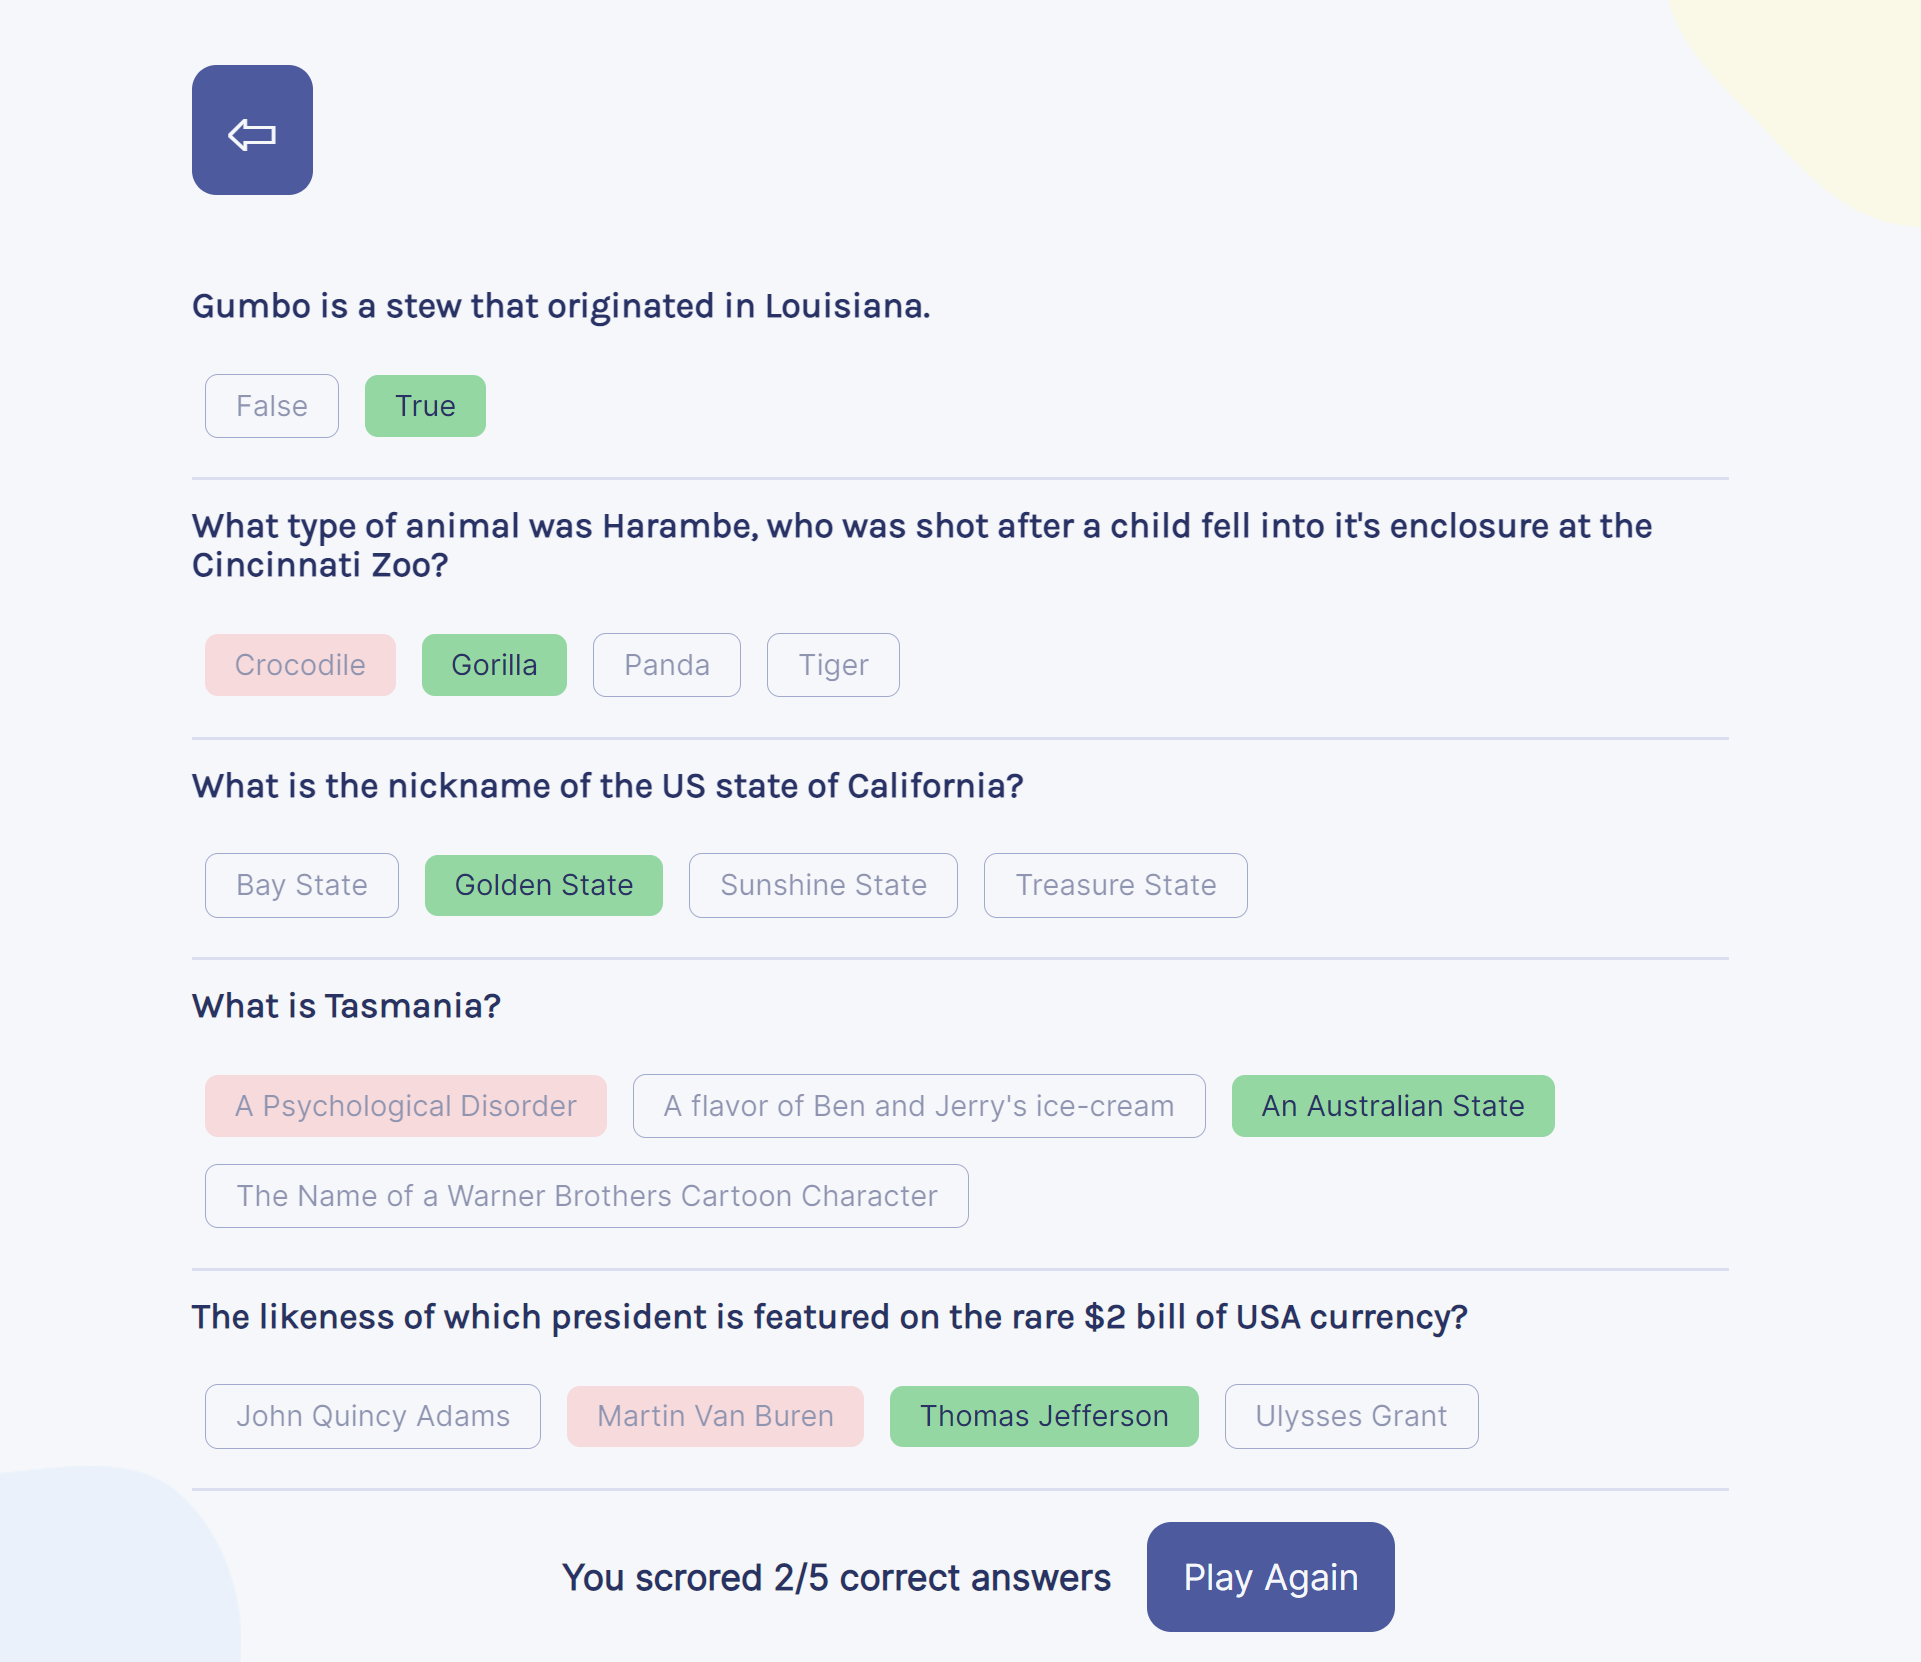
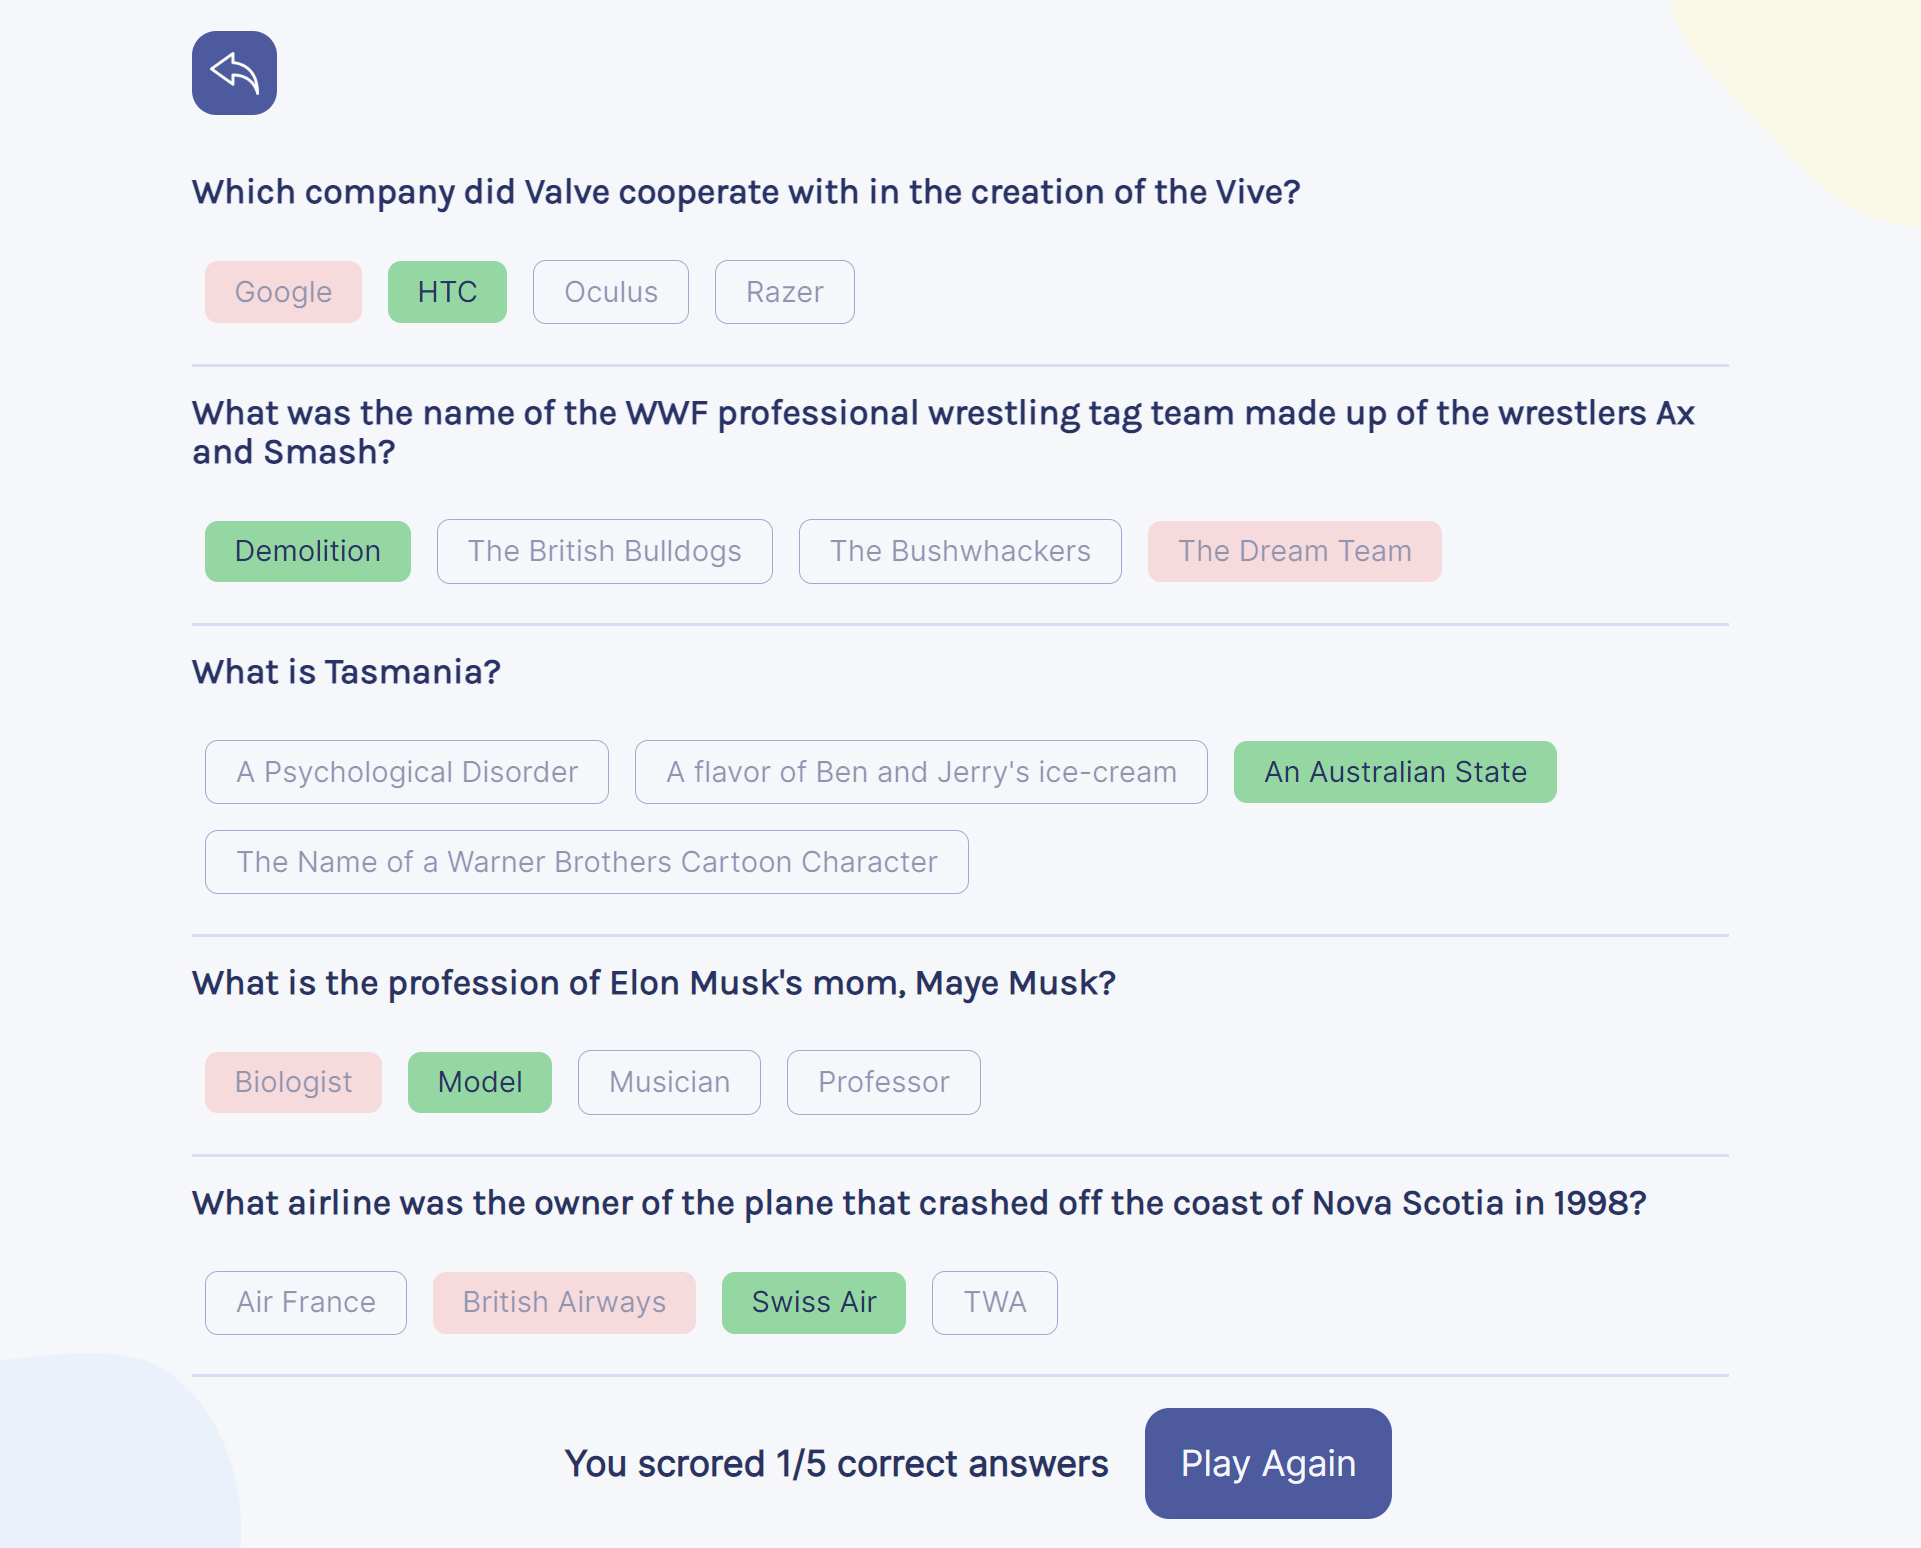
updated quiz.png

Changed region(s): [[0.0937, 0.0, 0.8745, 0.9612], [0.6247, 0.6202, 0.8121, 0.6822]]

diff --git a/quizzical/src/components/Main.jsx b/quizzical/src/components/Main.jsx
@@ -1,5 +1,6 @@
 import React from 'react';
 import Question from './Question'
+import turnBack from '../img/back-arrow.png'
 
 const Main = (props) => {
     const NUMBER_OF_QUESTIONS = 5
@@ -91,7 +92,7 @@ const Main = (props) => {
                     className='Main__btn-return' 
                     onClick={() => {handleButtonClick('return')}}
                 >
-                    &#8678;
+                    <img src={turnBack} alt="return" />
                 </button>
             </div>
 

diff --git a/quizzical/src/App.css b/quizzical/src/App.css
@@ -180,10 +180,14 @@ body {
 
 .Main__btn-return {
     display: flex;
-    align-items: center;
+    align-self: center;
 
     padding: 0.5em;
-    font-size: 40px;
+}
+
+.Main__btn-return img {
+    max-width: 30px;
+    max-height: 30px;
 }
 
 .Main__loader {
@@ -200,6 +204,7 @@ body {
 .Main__results {
     display: flex;
     justify-content: center;
+    align-items: center;
 
     margin: 0.5em 0;
 }
